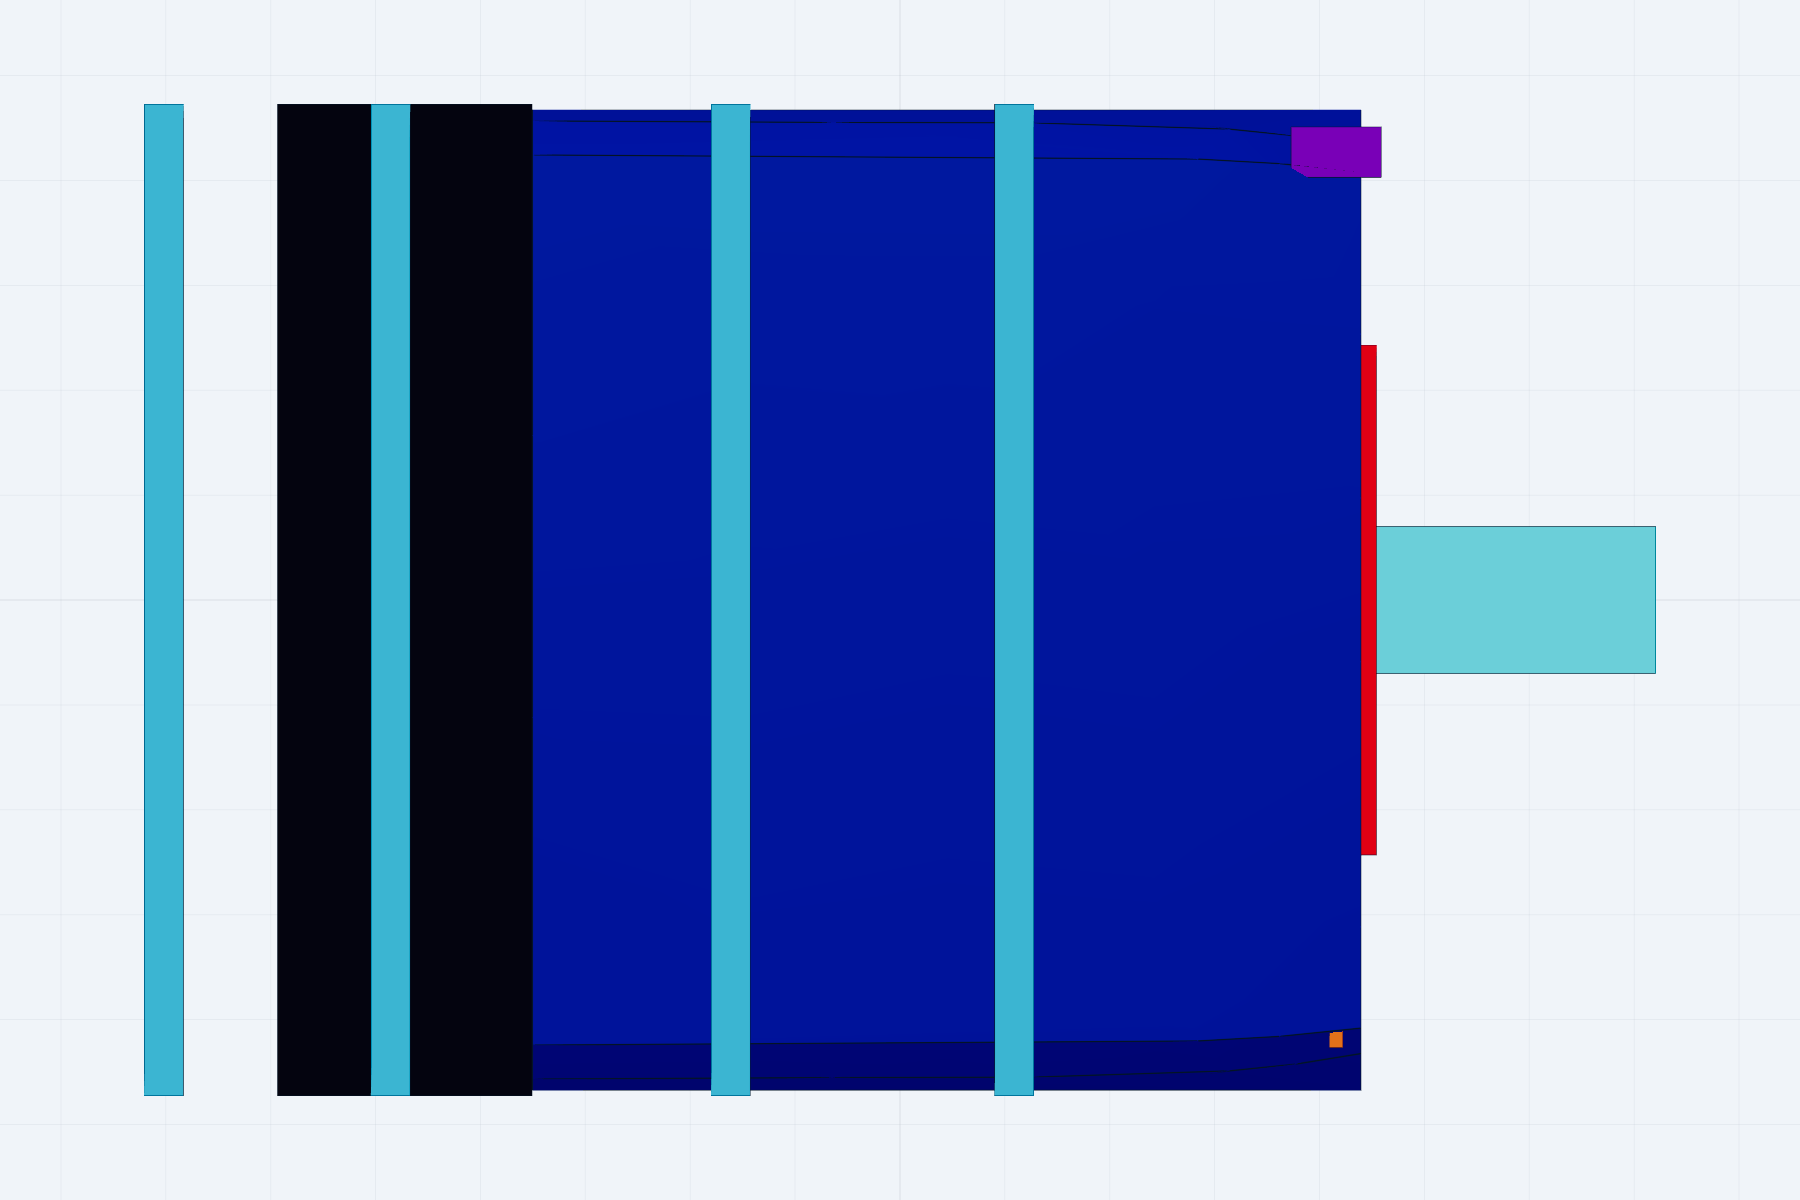
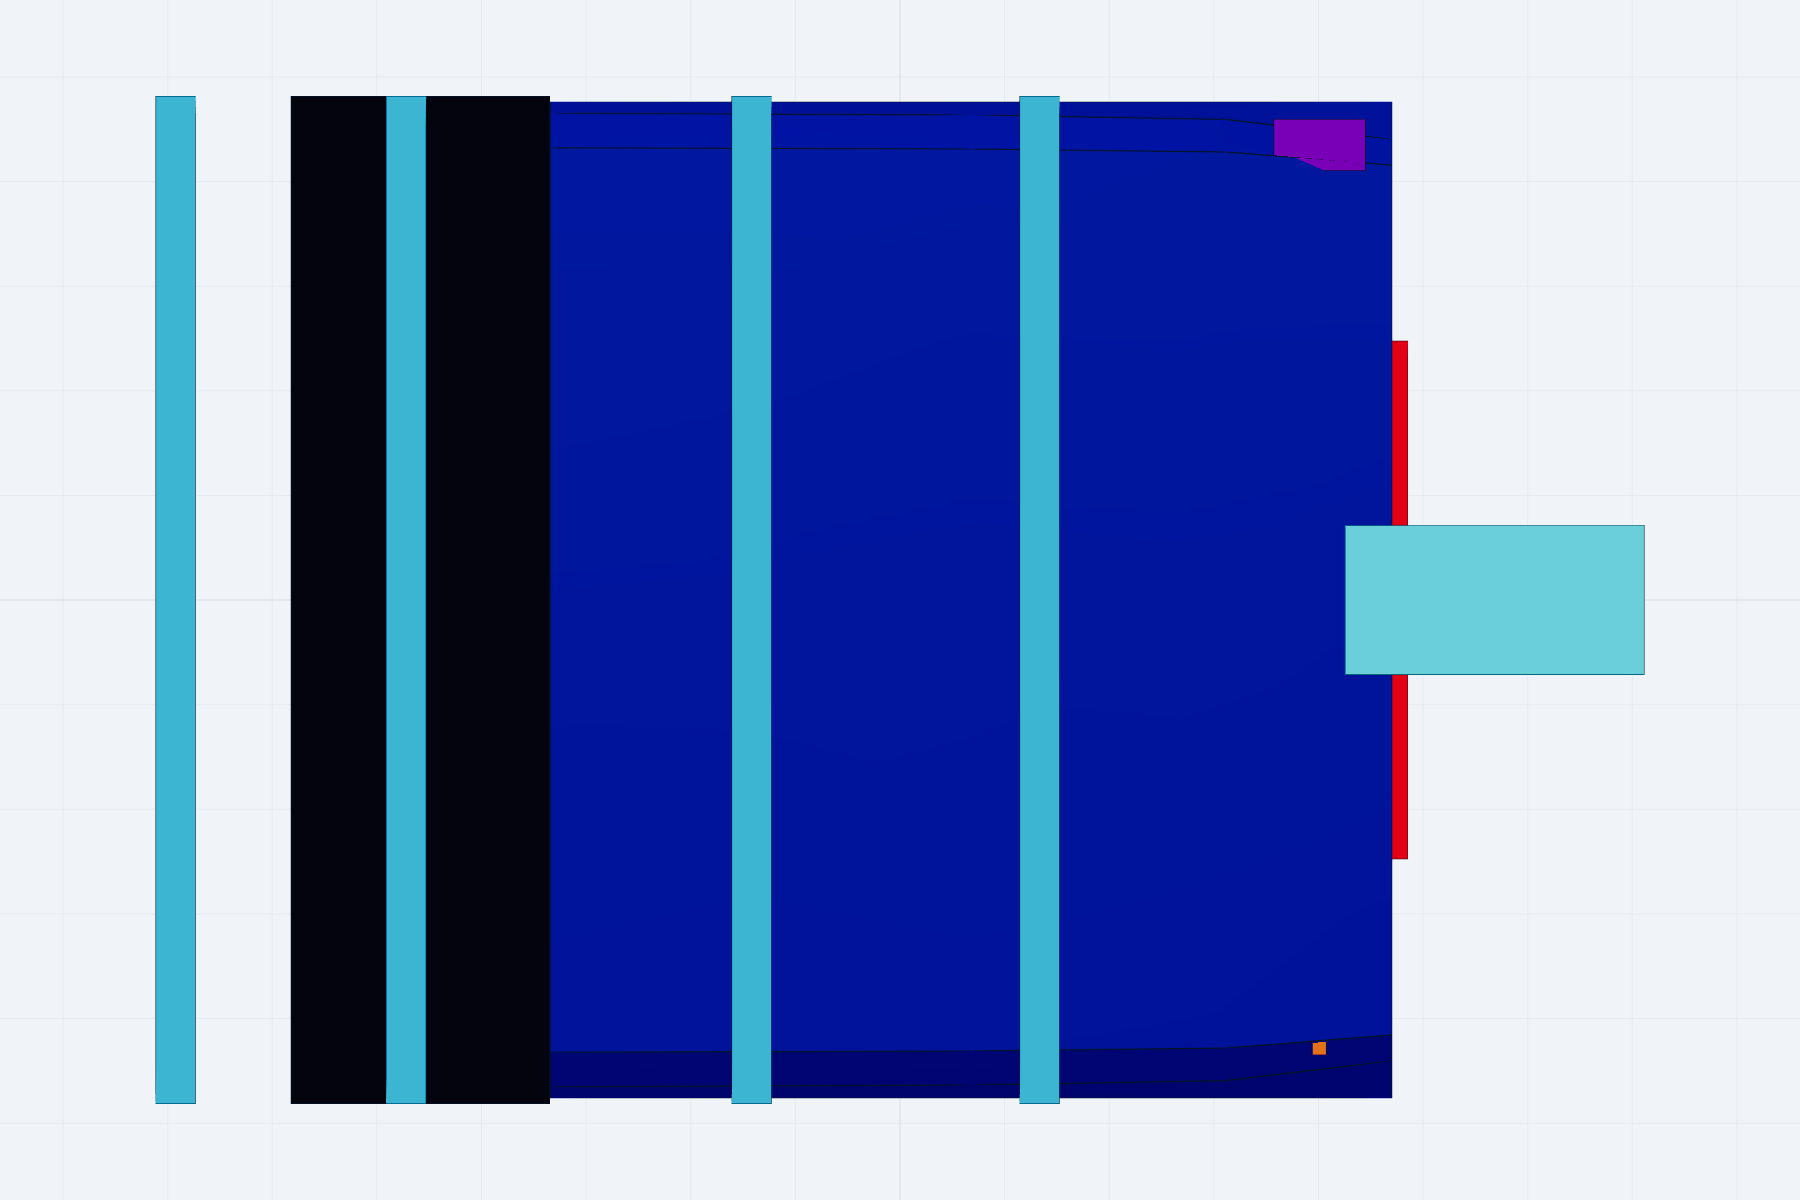
Fix R1T topper camera shell passage

diff --git a/models/r1t_topper/cad/step10_checks.py b/models/r1t_topper/cad/step10_checks.py
@@ -31,16 +31,19 @@ def _close(actual: float, expected: float) -> None:
 
 def run() -> None:
     base_shell = make_engineered_shell()
+    camera = make_rear_camera_provision().children
+    brake = make_brake_light_provision().children
     ready_shell = make_camera_brake_ready_shell()
     assert 0.0 < ready_shell.volume < base_shell.volume
+    assert (base_shell & camera[0]).volume > 0.0
+    brake_only_shell = base_shell - brake[0]
+    assert (brake_only_shell.volume - ready_shell.volume) > 0.0
 
-    camera = make_rear_camera_provision().children
     assert len(camera) == 2
     assert camera[0].volume > 0.0
     assert camera[1].bounding_box().min.X == value(rear_camera_center)[0]
     assert value(camera_housing_dimensions)[1] > 0.0
 
-    brake = make_brake_light_provision().children
     assert len(brake) == 2
     assert brake[0].volume > 0.0
     _close(brake[0].center().Y, 0.0)

diff --git a/models/r1t_topper/cad/electrical_integration.py b/models/r1t_topper/cad/electrical_integration.py
@@ -151,9 +151,10 @@ def make_low_voltage_harness_packaging() -> Compound:
             value(interior_light_bar_centers),
         )
     ]
+    camera_z = value(rear_camera_center)[2]
     camera_drop = _centered_box(
-        (channel_size[1], channel_size[1], rear_z - value(rear_camera_center)[2]),
-        (rear_x, 0.0, (rear_z + value(rear_camera_center)[2]) / 2.0),
+        (channel_size[1], channel_size[1], abs(rear_z - camera_z)),
+        (rear_x, 0.0, (rear_z + camera_z) / 2.0),
         "HARNESS_CAMERA_DROP_PROVISIONAL",
         HARNESS_COLOR,
     )

diff --git a/models/r1t_topper/cad/parameters.py b/models/r1t_topper/cad/parameters.py
@@ -281,10 +281,10 @@ camera_housing_dimensions = Parameter(
 
 # ELECTRICAL / VISIBILITY INTEGRATION
 rear_camera_center = Parameter(
-    (1462.0, 0.0, 180.0),
+    (1380.0, 0.0, 700.0),
     "mm (X,Y,Z)",
     DESIGN_DECISION,
-    "provisional rear-hatch camera packaging center; not an optical calibration",
+    "provisional high rear camera packaging center; not an optical calibration",
 )
 camera_optical_keepout_dimensions = Parameter(
     (520.0, 260.0, 180.0),
